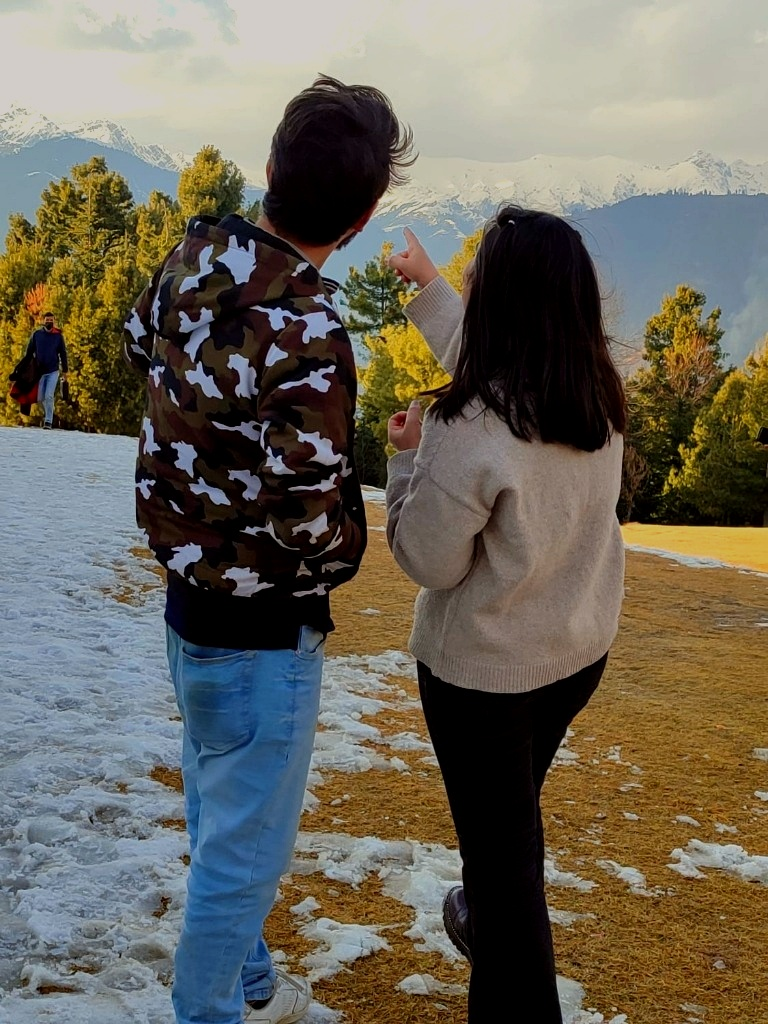
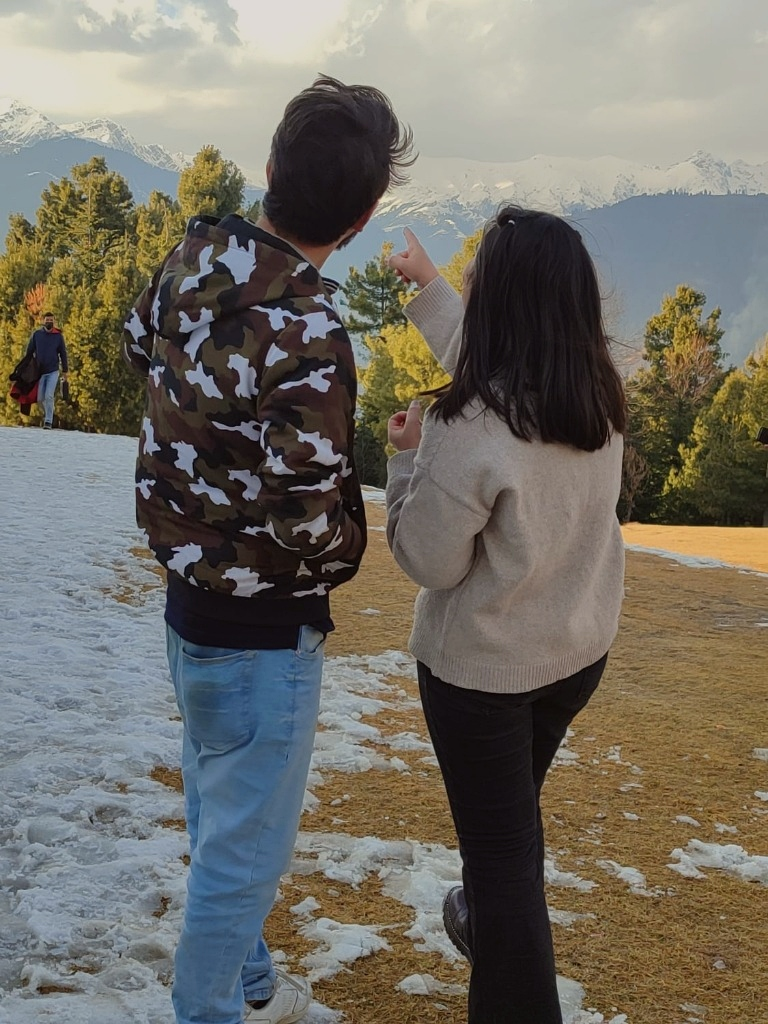
Adjust hero background image position lower and enhance visual clarity

Changed region(s): [[0.0, 0.0938, 1.0, 1.0], [0.1875, 0.75, 0.625, 1.0], [0.625, 0.5, 0.6562, 0.5312]]

diff --git a/src/components/HeroSection.tsx b/src/components/HeroSection.tsx
@@ -34,17 +34,17 @@ export const HeroSection: React.FC<HeroSectionProps> = ({
 
   return (
     <section className="relative min-h-[95vh] pt-36 pb-24 flex items-center justify-center overflow-hidden bg-[#04070d]">
-      {/* Enhanced Authentic Background Image with Layered Vignette Overlays */}
+      {/* Enhanced Background Image - Shifted down a bit (object-[center_28%]) & slightly clearer (brightness-85) */}
       <div className="absolute inset-0 z-0">
         <img
           src="/hero-bg.jpg"
           alt="Safar Nama Hangama Travelers Pointing at Snow Peaks"
-          className="w-full h-full object-cover object-[center_18%] filter brightness-[0.75] contrast-[1.08] saturate-[1.1] scale-[1.02] transition-transform duration-10000"
+          className="w-full h-full object-cover object-[center_28%] filter brightness-[0.84] contrast-[1.06] saturate-[1.08] transition-all duration-500"
         />
-        {/* Layered Gradient Overlays for Elegant Dark Vignette */}
-        <div className="absolute inset-0 bg-gradient-to-t from-[#04070d] via-[#04070d]/60 to-[#04070d]/40" />
-        <div className="absolute inset-0 bg-gradient-to-r from-[#04070d]/90 via-[#04070d]/30 to-[#04070d]/90" />
-        <div className="absolute inset-0 bg-gradient-to-b from-[#04070d]/75 via-transparent to-[#04070d]" />
+        {/* Layered Gradient Overlays - Lightened for subtle clarity */}
+        <div className="absolute inset-0 bg-gradient-to-t from-[#04070d] via-[#04070d]/45 to-[#04070d]/30" />
+        <div className="absolute inset-0 bg-gradient-to-r from-[#04070d]/85 via-[#04070d]/20 to-[#04070d]/85" />
+        <div className="absolute inset-0 bg-gradient-to-b from-[#04070d]/65 via-transparent to-[#04070d]" />
       </div>
 
       {/* Dynamic Glowing Aurora Orbs matching logo color #E5983A */}

diff --git a/grade_hero_image.py b/grade_hero_image.py
@@ -1,27 +1,28 @@
 from PIL import Image, ImageEnhance
 import os
 
+# Re-copy raw image from upload if exists, or re-grade cleanly
+upload_path = r'C:\Users\Usama\.gemini\antigravity\brain\198cc7da-7375-42d8-8cb4-a9066ba72dab\.user_uploaded\media_1789683966470.jpg'
 hero_path = os.path.join('public', 'hero-bg.jpg')
 
-if os.path.exists(hero_path):
-    img = Image.open(hero_path).convert("RGB")
+if os.path.exists(upload_path):
+    img = Image.open(upload_path).convert("RGB")
     
-    # 1. Warm Golden Amber Tint matching #E5983A
+    # Warm Golden Amber Tint matching #E5983A (subtle 5% warmth, 10% dark depth for clarity)
     gold_overlay = Image.new("RGB", img.size, (229, 152, 58)) # #E5983A
     dark_overlay = Image.new("RGB", img.size, (4, 7, 13))     # #04070D
     
-    # Blend image with golden warmth (8%) and dark vignette depth (22%)
-    warmed = Image.blend(img, gold_overlay, 0.08)
-    graded = Image.blend(warmed, dark_overlay, 0.22)
+    warmed = Image.blend(img, gold_overlay, 0.05)
+    graded = Image.blend(warmed, dark_overlay, 0.12) # lighter dark blend for a slightly clearer look
     
-    # 2. Boost Contrast & Vibrancy
-    enhancer = ImageEnhance.Contrast(graded)
-    contrasted = enhancer.enhance(1.15)
+    # Boost Sharpness & Vibrancy slightly
+    enhancer = ImageEnhance.Sharpness(graded)
+    sharp = enhancer.enhance(1.25)
     
-    enhancer = ImageEnhance.Color(contrasted)
-    final_img = enhancer.enhance(1.12)
+    enhancer = ImageEnhance.Color(sharp)
+    final_img = enhancer.enhance(1.15)
     
-    final_img.save(hero_path, "JPEG", quality=95)
-    print("Hero image color graded successfully!")
+    final_img.save(hero_path, "JPEG", quality=98)
+    print("Hero image re-graded for extra clarity and crispness!")
 else:
-    print("hero-bg.jpg not found")
+    print("Upload path not found")
